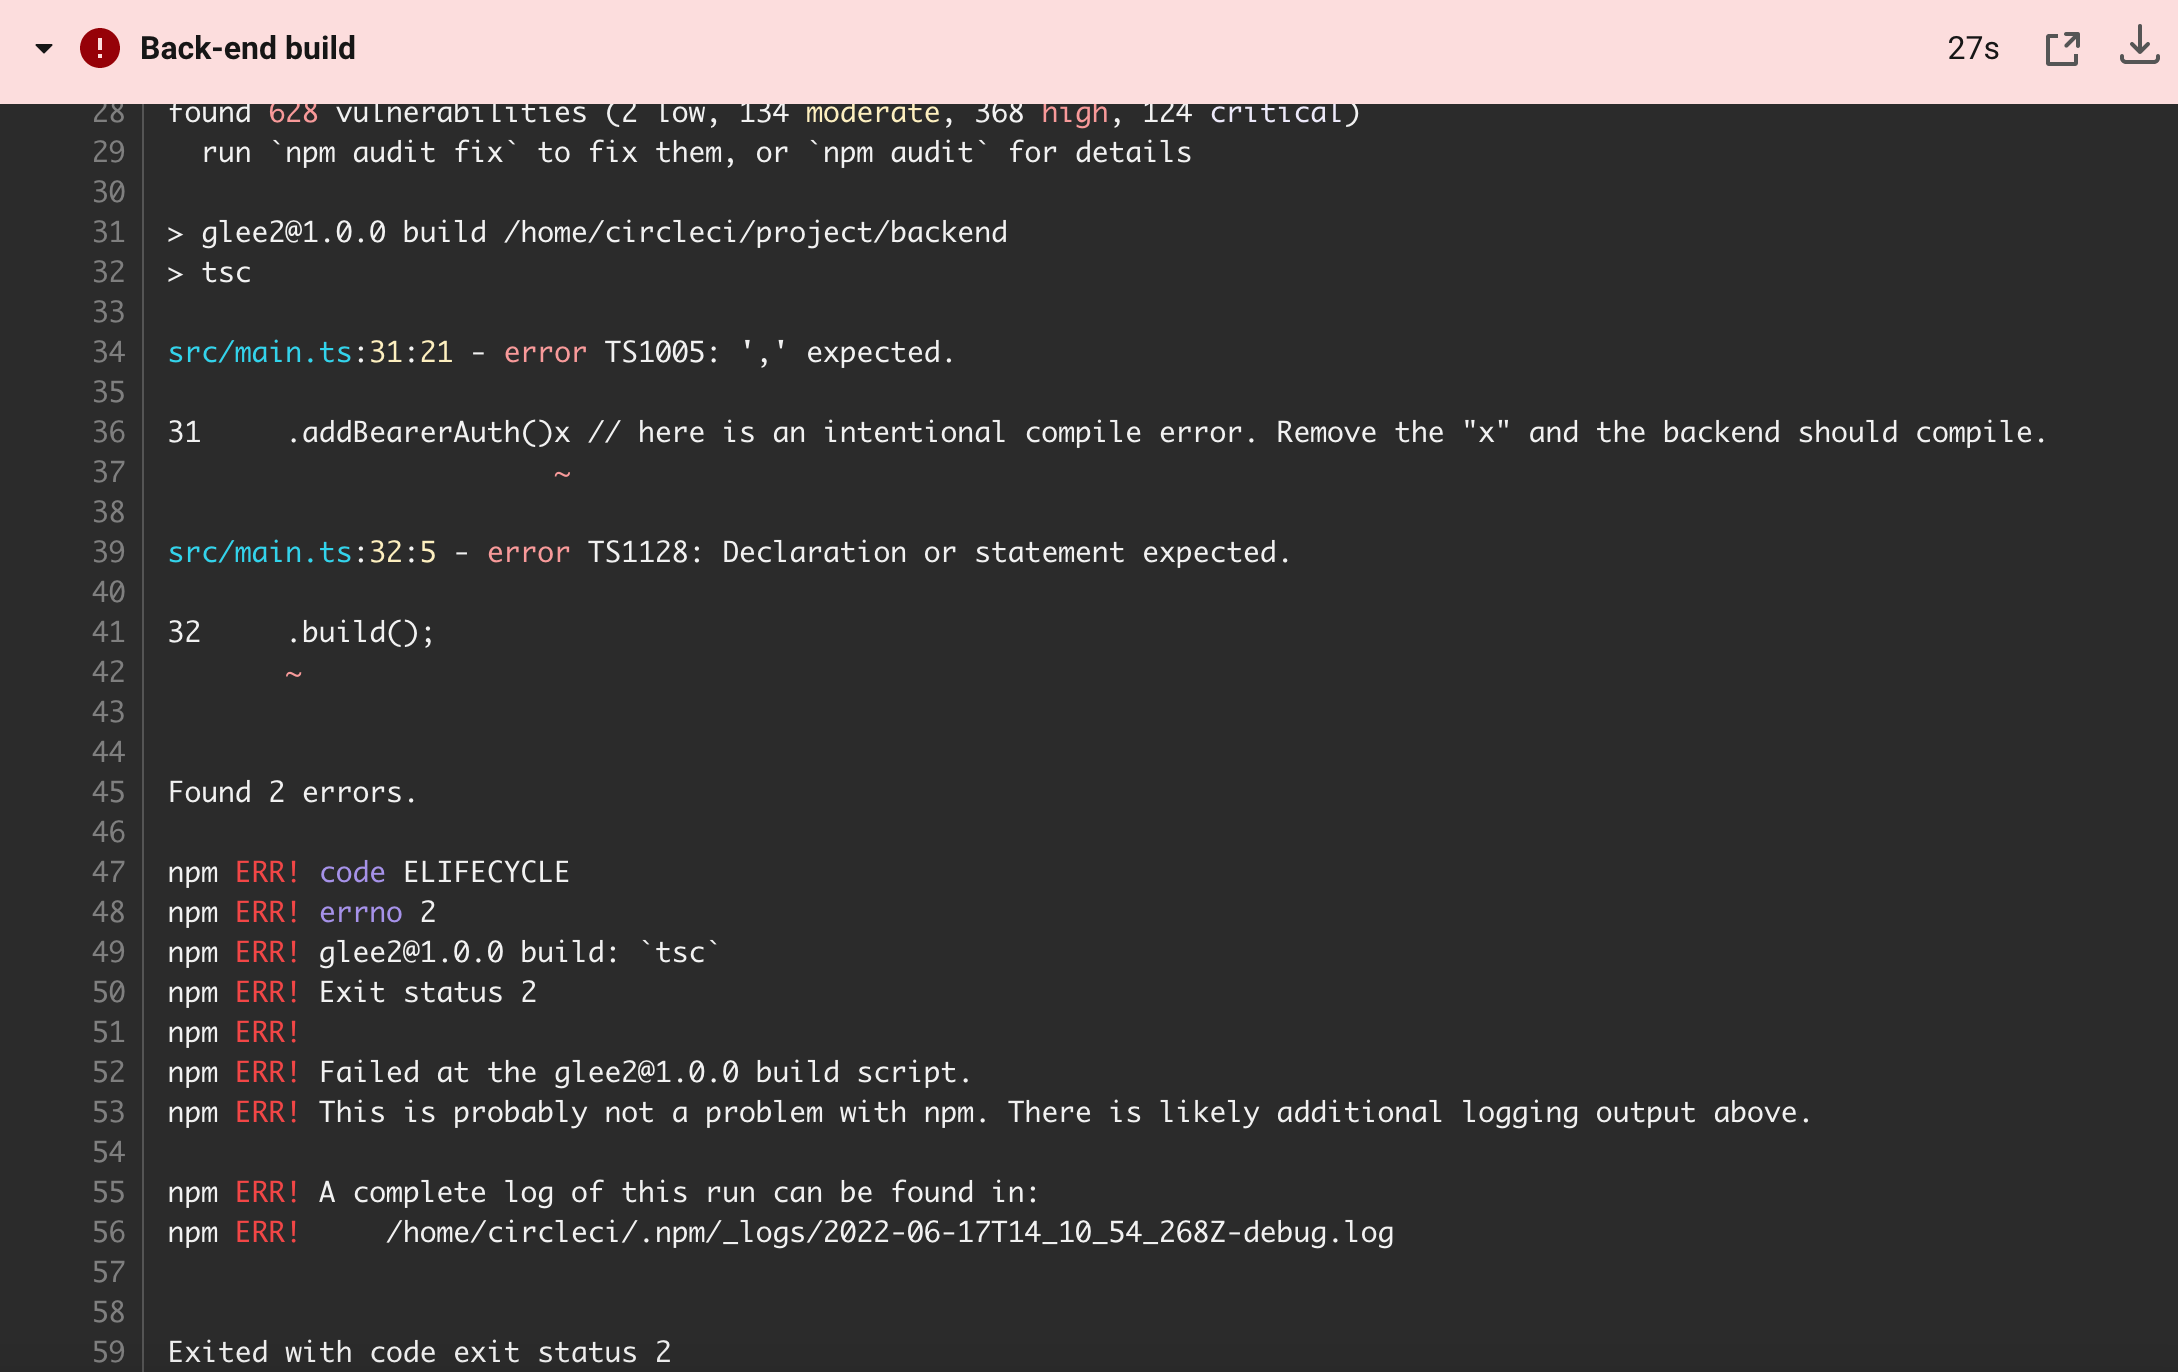
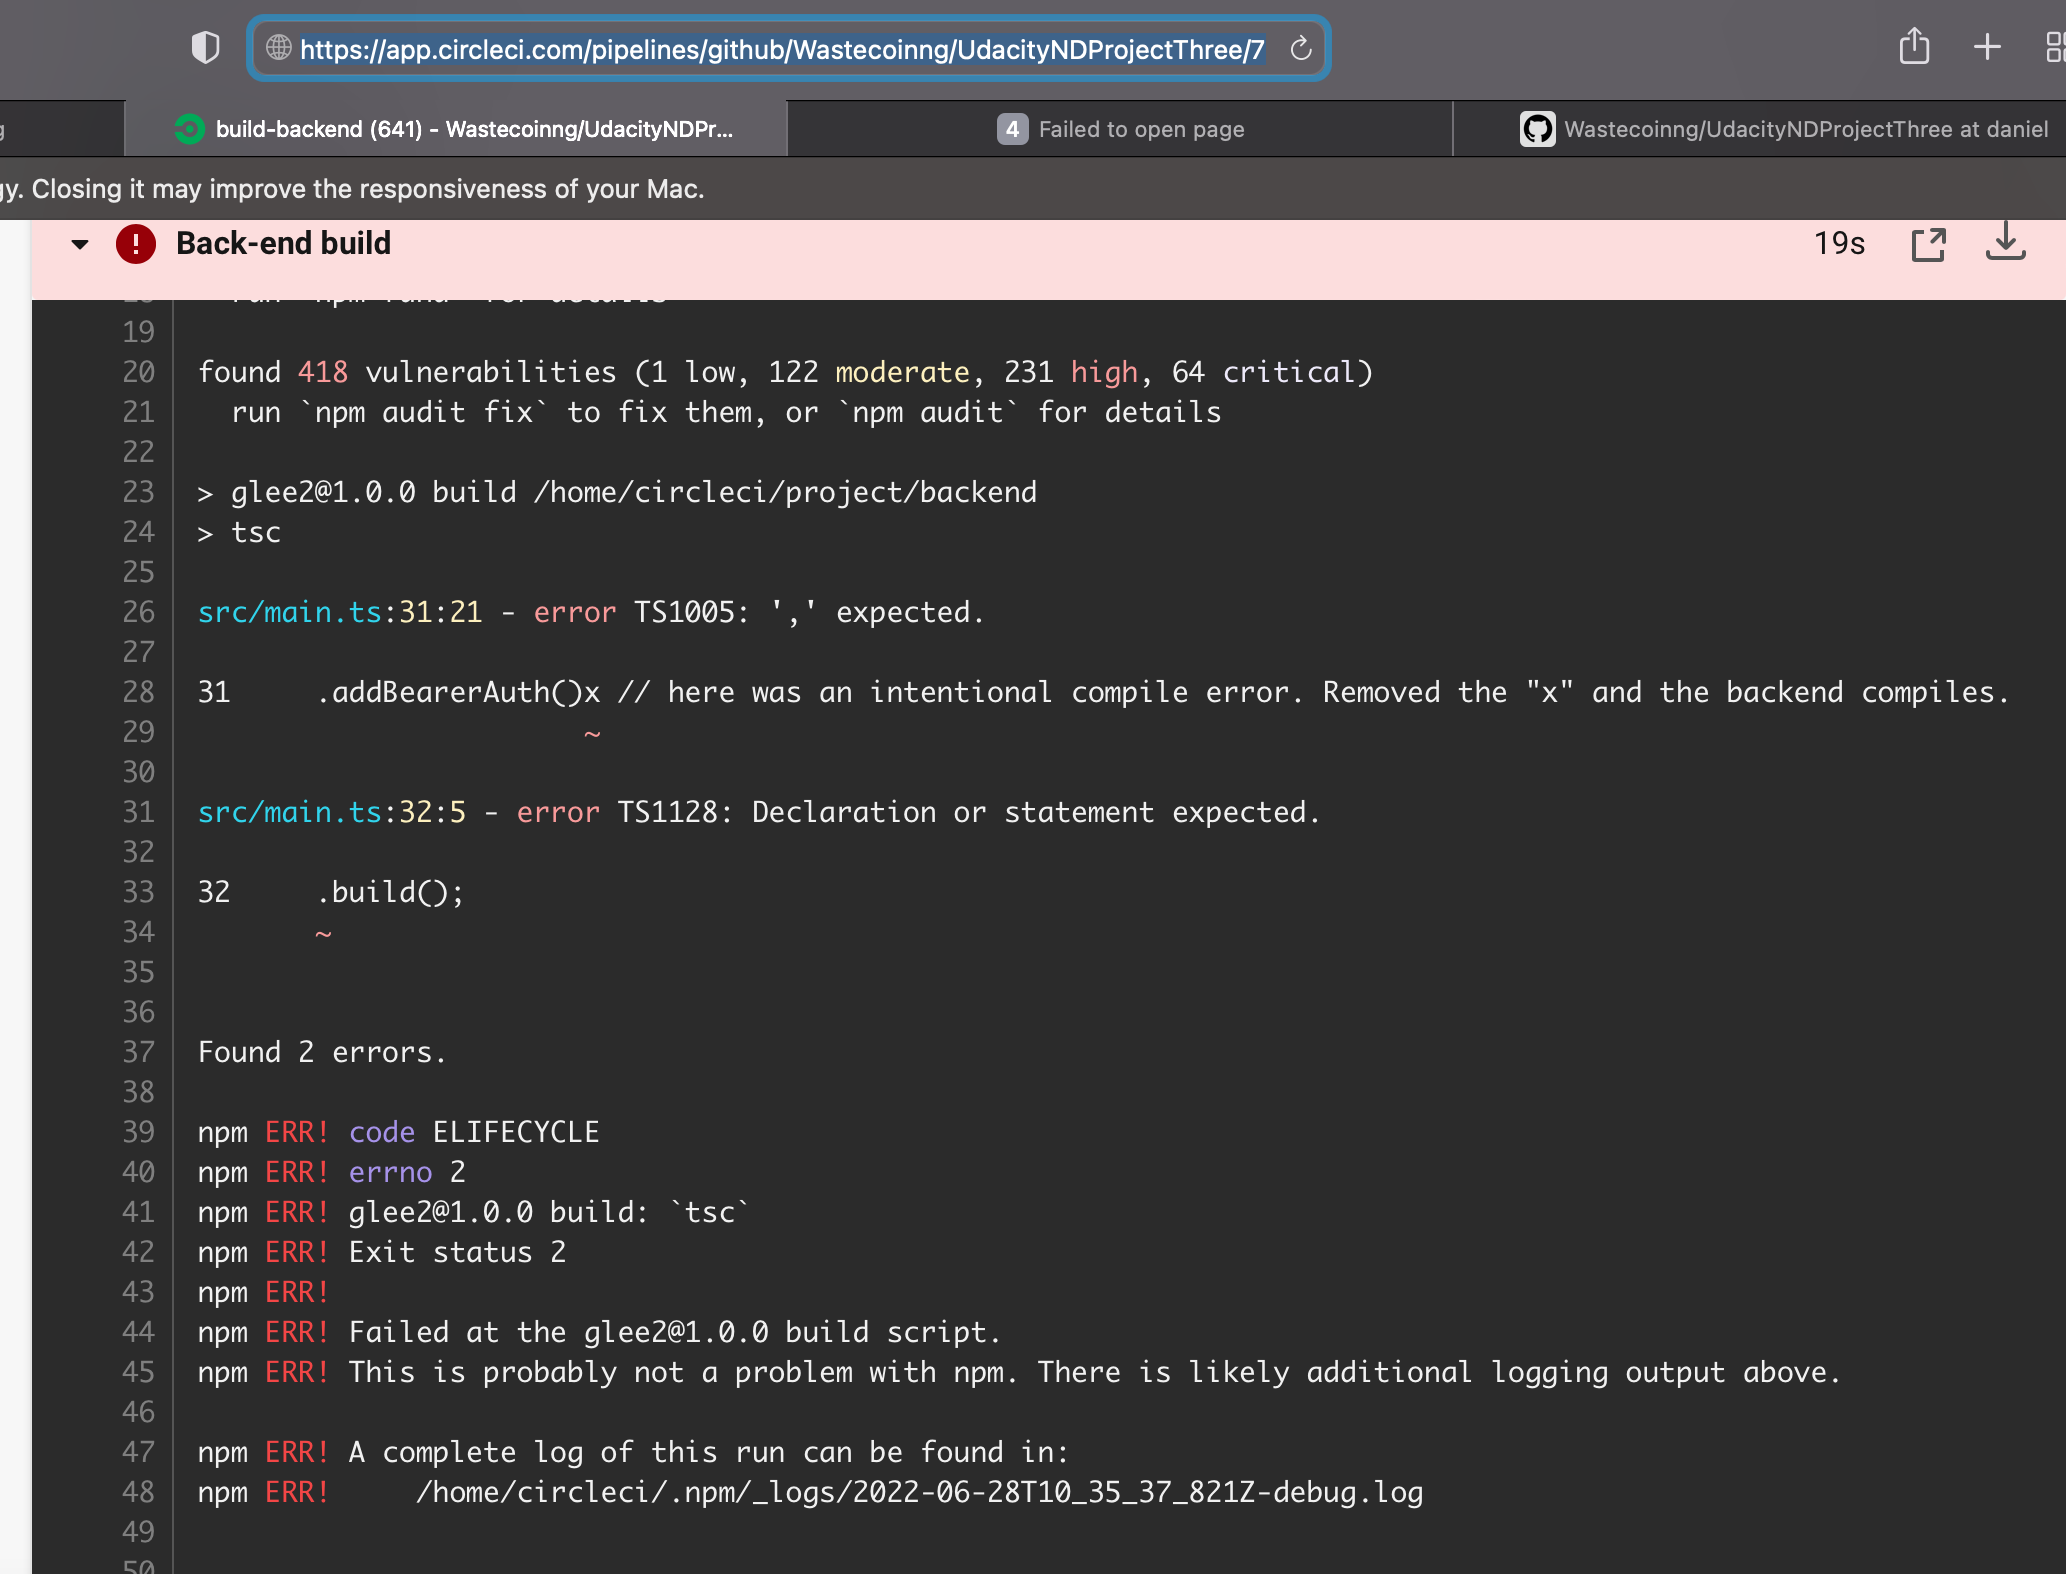
test phase1

diff --git a/backend/src/main.ts b/backend/src/main.ts
@@ -28,7 +28,7 @@ async function bootstrap() {
     .setVersion('1.0')
     .addTag('customTag')
     .setBasePath(apiVersionPrefix)
-    .addBearerAuth()x // here was an intentional compile error. Removed the "x" and the backend compiles.
+    .addBearerAuth() // here was an intentional compile error. Removed the "x" and the backend compiles.
     .build();
   const document = SwaggerModule.createDocument(app, options);
   SwaggerModule.setup(`api/${apiVersionPrefix}`, app, document);
